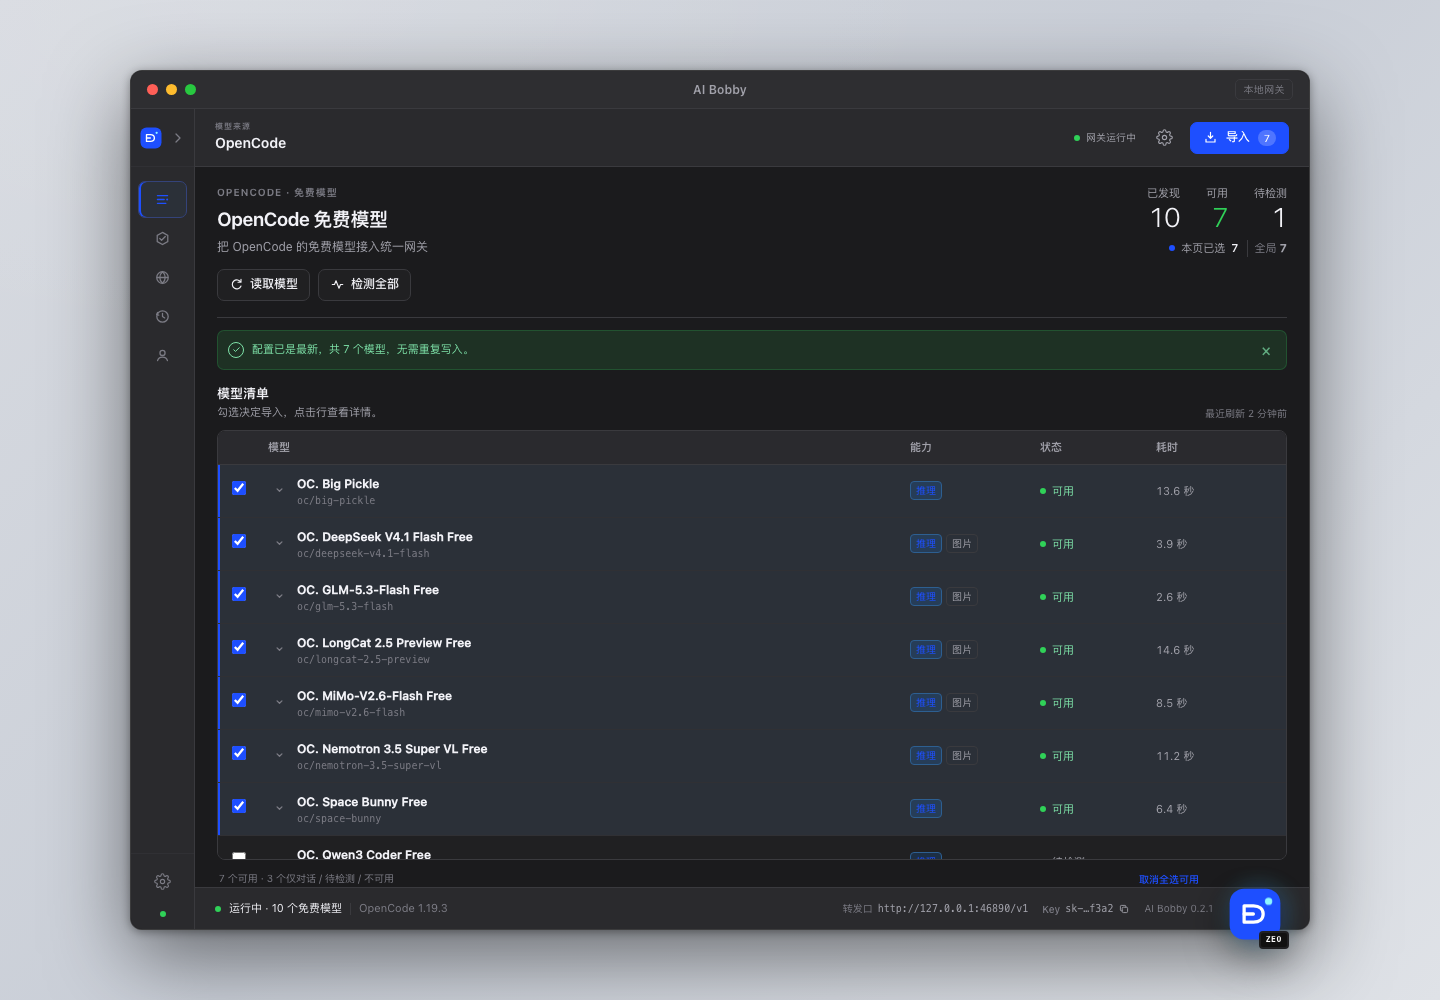
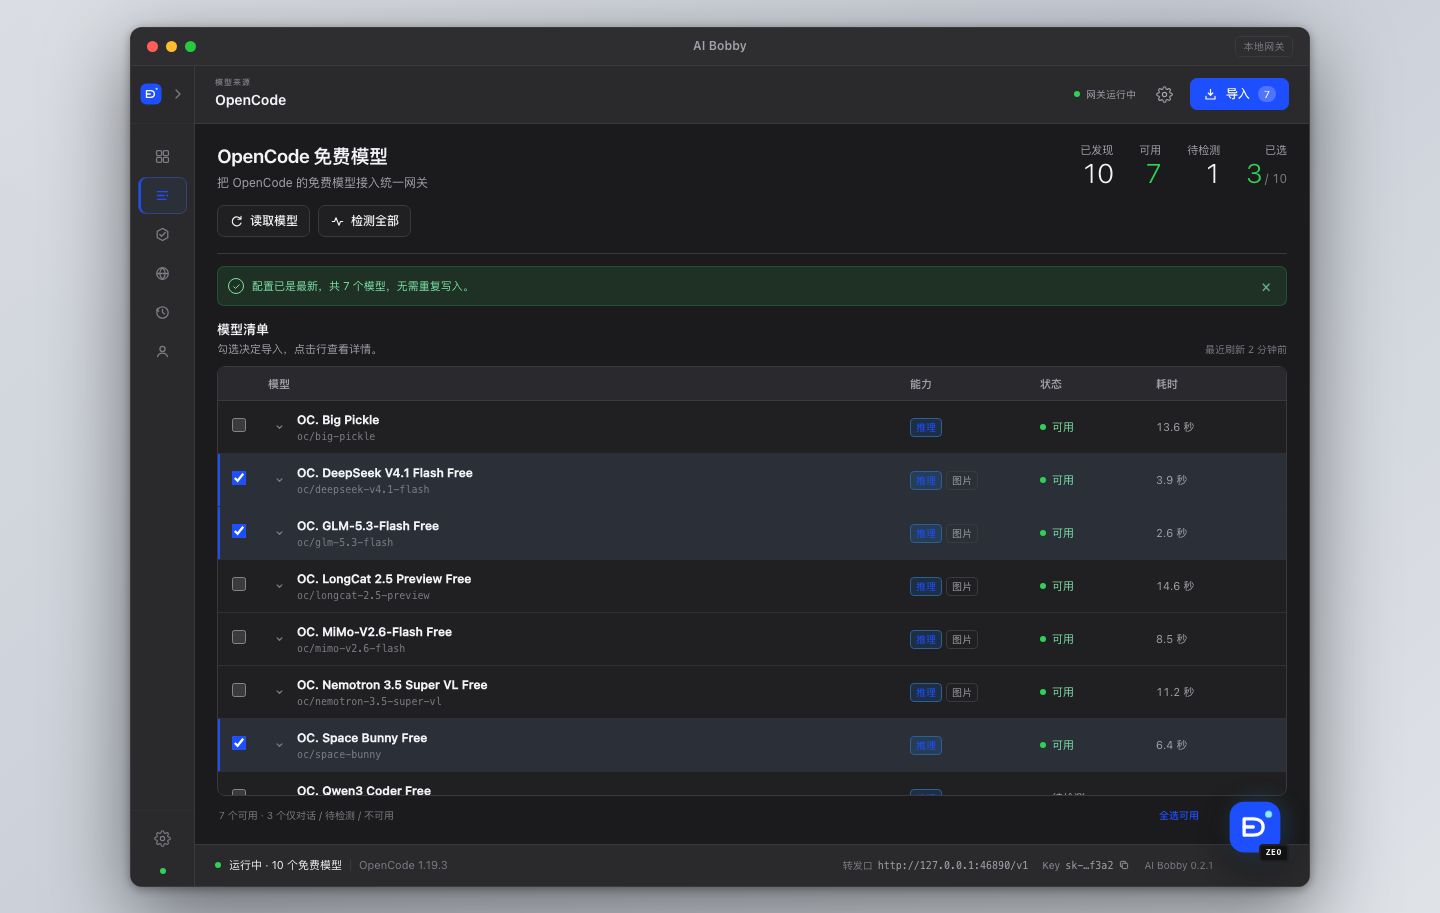
docs: add acceptance checklist and refresh collapsed prototype shot

diff --git a/handsoff.md b/handsoff.md
@@ -468,3 +468,15 @@ WorkBuddy 上游
 - 文档：PRD FR-UI-2/3/9/12、tech 组件清单、README 改版说明与历史页说明、prototype README 同步。
 - 验证：desktop typecheck、27 项测试、build；CDP 复核指标/侧栏、`openDirectory`、`getImportedModelIds`；
   应用已重启（dev、46890）供明早验收。
+
+### 2026-10-19 明早验收清单（v0.2.2）
+
+1. 侧边栏：概览 / 三个来源（显示 `已选/总数`）/ 历史 / 关于 / 设置；收起展开正常。
+2. 概览页：网关、模型源、积分、最近导入四张卡 + 三个来源卡 + 最近 3 次导入；页面上没有导入按钮。
+3. 来源页：标题上方没有重复文案；指标为 已发现/可用/待检测/已选（`x/y`）；勾选与侧边栏数字联动。
+4. 历史页：导入记录与备份合并表；查看差异（只读）、打开目录（Finder）、恢复（确认弹窗）可用。
+5. 导入抽屉：改动选择时 diff 自动刷新；默认模型说明正确；底部只有 取消/写入。
+6. 关于页：先退出网易云音乐，再点歌曲应一次播放；专辑卡提示后打开网页版；播放器/头像可拖动。
+7. 设置页：主题切换、自动检查开关、检查更新、Key/端点复制。
+8. DeepSeek Harness：在导入抽屉重新写入一次，重启 DSH 后不再提示 `AI_BOBBY_API_KEY`。
+9. 真实客户端：Codex / Claude Code / DSH 各发一次消息；WorkBuddy 账号额度与扫码登录需你本人复验。
